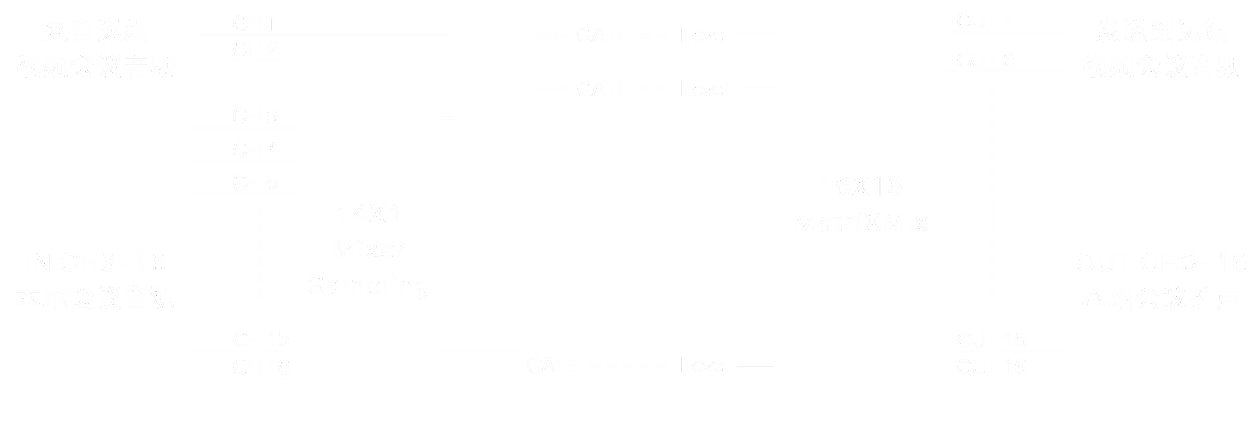
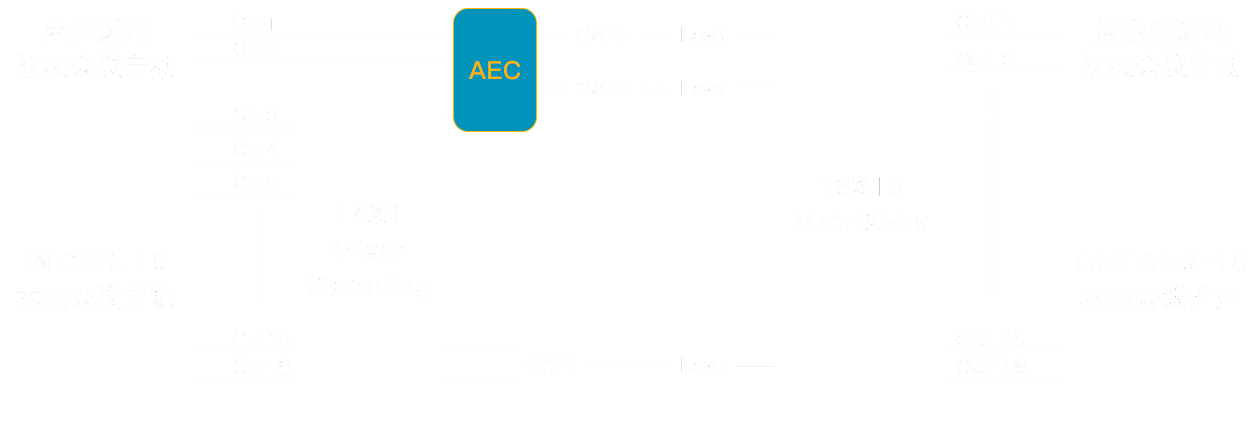
shouquanma

Changed region(s): [[0.3418, 0.0, 0.4351, 0.3125]]

diff --git a/veenoon/Engineer/Audio/RIghtView/AudioProcess/YinPinProcessCodeUIView.m b/veenoon/Engineer/Audio/RIghtView/AudioProcess/YinPinProcessCodeUIView.m
@@ -1,0 +1,123 @@
+//
+//  YinPinProcessCodeUIView.m
+//  veenoon
+//
+//  Created by 安志良 on 2018/3/4.
+//  Copyright © 2018年 jack. All rights reserved.
+//
+
+#import "YinPinProcessCodeUIView.h"
+
+@interface YinPinProcessCodeUIView()<UITextFieldDelegate> {
+    UIView *_inputPannel;
+    UITextField *_invitationCode;
+}
+
+@end
+
+@implementation YinPinProcessCodeUIView
+
+- (id)initWithFrame:(CGRect)frame {
+    if (self = [super initWithFrame:frame]) {
+        self.backgroundColor = [UIColor clearColor];
+        
+        UIView *view = [[UIView alloc] initWithFrame:self.bounds];
+        view.backgroundColor = RGB(1, 138, 182);
+        view.alpha = 0.9;
+        
+        [self addSubview:view];
+        
+        UIImageView *titleIcon = [[UIImageView alloc] initWithImage:[UIImage imageNamed:@"main_view_title.png"]];
+        [self addSubview:titleIcon];
+        titleIcon.frame = CGRectMake(60, 40, 70, 10);
+        
+        UILabel *line = [[UILabel alloc] initWithFrame:CGRectMake(0, 63, SCREEN_WIDTH, 1)];
+        line.backgroundColor = RGB(75, 163, 202);
+        [self addSubview:line];
+        
+        UIImageView *bottomBar = [[UIImageView alloc] initWithFrame:CGRectMake(0, SCREEN_HEIGHT-50, SCREEN_WIDTH, 50)];
+        [self addSubview:bottomBar];
+        
+        //缺切图，把切图贴上即可。
+        bottomBar.backgroundColor = [UIColor grayColor];
+        bottomBar.userInteractionEnabled = YES;
+        bottomBar.image = [UIImage imageNamed:@"botomo_icon.png"];
+        
+        UIButton *cancelBtn = [UIButton buttonWithType:UIButtonTypeCustom];
+        cancelBtn.frame = CGRectMake(0, 0,160, 50);
+        [bottomBar addSubview:cancelBtn];
+        [cancelBtn setTitle:@"取消" forState:UIControlStateNormal];
+        [cancelBtn setTitleColor:[UIColor whiteColor] forState:UIControlStateNormal];
+        [cancelBtn setTitleColor:RGB(255, 180, 0) forState:UIControlStateHighlighted];
+        cancelBtn.titleLabel.font = [UIFont boldSystemFontOfSize:18];
+        [cancelBtn addTarget:self
+                      action:@selector(cancelAction:)
+            forControlEvents:UIControlEventTouchUpInside];
+        
+        UIButton *okBtn = [UIButton buttonWithType:UIButtonTypeCustom];
+        okBtn.frame = CGRectMake(SCREEN_WIDTH-10-160, 0,160, 50);
+        [bottomBar addSubview:okBtn];
+        [okBtn setTitle:@"确认" forState:UIControlStateNormal];
+        [okBtn setTitleColor:[UIColor whiteColor] forState:UIControlStateNormal];
+        [okBtn setTitleColor:RGB(255, 180, 0) forState:UIControlStateHighlighted];
+        okBtn.titleLabel.font = [UIFont boldSystemFontOfSize:18];
+        [okBtn addTarget:self
+                  action:@selector(okAction:)
+        forControlEvents:UIControlEventTouchUpInside];
+        
+        _inputPannel = [[UIView alloc] initWithFrame:CGRectMake(0, 0, 400, 180)];
+        [self addSubview:_inputPannel];
+        _inputPannel.center = CGPointMake(SCREEN_WIDTH/2, SCREEN_HEIGHT/2);
+        
+        ///在这里编写登录输入内容框 _inputPannel
+        int top = 40;
+        int left = 0;
+        int w = CGRectGetWidth(_inputPannel.frame);
+        UILabel *tL = [[UILabel alloc] initWithFrame:CGRectMake(20, 0, w-40, 50)];
+        tL.textAlignment = NSTextAlignmentCenter;
+        tL.text = @"授权码";
+        tL.textColor = RGB(70, 219, 254);
+        tL.font = [UIFont boldSystemFontOfSize:18];
+        [_inputPannel addSubview:tL];
+        
+        ///手机号输入框 pending....
+        _invitationCode = [[UITextField alloc] initWithFrame:CGRectMake(25, top+20, w-50, 30)];
+        _invitationCode.delegate = self;
+        _invitationCode.layer.cornerRadius = 5;
+        _invitationCode.layer.masksToBounds = YES;
+        _invitationCode.textAlignment = NSTextAlignmentCenter;
+        _invitationCode.returnKeyType = UIReturnKeyDone;
+        _invitationCode.placeholder = @"";
+        _invitationCode.backgroundColor = [UIColor whiteColor];
+        _invitationCode.textColor = RGB(1, 138, 182);
+        _invitationCode.borderStyle = UITextBorderStyleNone;
+        [_inputPannel addSubview:_invitationCode];
+    }
+    return self;
+}
+- (void)textFieldDidBeginEditing:(UITextField *)textField{
+    
+    
+}
+
+- (void)  textFieldDidEndEditing:(UITextField *)textField{
+    
+    
+}
+
+- (BOOL)textFieldShouldReturn:(UITextField *)textField{
+    
+    [textField resignFirstResponder];
+    
+    return YES;
+}
+
+- (void) okAction:(id)sender {
+    [self removeFromSuperview];
+}
+
+- (void) cancelAction:(id)sender{
+    [self removeFromSuperview];
+}
+
+@end

diff --git a/veenoon/Engineer/Audio/RIghtView/AudioProcess/HuiShengXiaoChu_UIView.m b/veenoon/Engineer/Audio/RIghtView/AudioProcess/HuiShengXiaoChu_UIView.m
@@ -15,6 +15,8 @@
     UIButton *channelBtn;
     
     UIView   *contentView;
+    
+    UIButton *aecButton;
 }
 @property (nonatomic, strong) NSMutableArray *_channelBtns;
 
@@ -23,6 +25,7 @@
 
 @implementation HuiShengXiaoChu_UIView
 @synthesize _channelBtns;
+@synthesize delegate_;
 /*
  // Only override drawRect: if you perform custom drawing.
  // An empty implementation adversely affects performance during animation.
@@ -140,8 +143,21 @@
                    action:@selector(zhitongBtnAction:)
          forControlEvents:UIControlEventTouchUpInside];
     [contentView addSubview:zhitongBtn];
+    
+    aecButton = [UIButton buttonWithColor:nil selColor:nil];
+    aecButton.frame = CGRectMake(350, 150, 50, 75);
+    aecButton.clipsToBounds = YES;
+    aecButton.layer.cornerRadius = 5;
+    [aecButton addTarget:self
+                   action:@selector(aceBtnAction:)
+         forControlEvents:UIControlEventTouchUpInside];
+    [self addSubview:aecButton];
 }
-
+- (void) aceBtnAction:(id) sender {
+    if(delegate_ && [delegate_ respondsToSelector:@selector(didAecButtonAction)]) {
+        [delegate_ didAecButtonAction];
+    }
+}
 - (void) zhitongBtnAction:(id) sender {
     
 }

diff --git a/veenoon/Engineer/Audio/RIghtView/AudioInputSettingViewCtrl.m b/veenoon/Engineer/Audio/RIghtView/AudioInputSettingViewCtrl.m
@@ -14,9 +14,9 @@
 #import "YanShiQi_UIView.h"
 #import "HuiShengXiaoChu_UIView.h"
 #import "LvBoJunHeng_UIView.h"
+#import "YinPinProcessCodeUIView.h"
 
-@interface AudioInputSettingViewCtrl ()
-{
+@interface AudioInputSettingViewCtrl () <HuiShengXiaoChu_UIViewDelegate> {
     YaXianQi_UIView *yxq;
     ZengYi_UIView *zengyiView;
     ZaoShengMen_UIView *zaoshengView;
@@ -212,6 +212,7 @@
     lvbo.hidden = YES;
     
     huishengView = [[HuiShengXiaoChu_UIView alloc] initWithFrame:vrc];
+    huishengView.delegate_ = self;
     [self.view addSubview:huishengView];
     huishengView.hidden = YES;
     
@@ -305,8 +306,12 @@
     huishengView.hidden = YES;
     lvbo.hidden = YES;
 }
-
-- (void) okAction:(id)sender{
+- (void) didAecButtonAction {
+    YinPinProcessCodeUIView *uiView = [[YinPinProcessCodeUIView alloc] initWithFrame:CGRectMake(0, 0, SCREEN_WIDTH, SCREEN_HEIGHT)];
+    
+    [self.view addSubview:uiView];
+}
+- (void) okAction:(id)sender {
     
 }
 

diff --git a/veenoon/Engineer/Audio/RIghtView/AudioProcess/Fenpinqi_UIView.m b/veenoon/Engineer/Audio/RIghtView/AudioProcess/Fenpinqi_UIView.m
@@ -57,6 +57,8 @@
         [self addSubview:addLabel];
         
         SlideButton *btn = [[SlideButton alloc] initWithFrame:CGRectMake(startX-33, startH+30, 120, 120)];
+        UIImage *image = [UIImage imageNamed:@"yinpinchuli_anniu.png"];
+        [btn changeButtonBackgroundImage:image];
         [self addSubview:btn];
         
         gaotongL = [[UILabel alloc] init];

diff --git a/veenoon/Engineer/Audio/RIghtView/AudioProcess/HuiShengXiaoChu_UIView.h b/veenoon/Engineer/Audio/RIghtView/AudioProcess/HuiShengXiaoChu_UIView.h
@@ -7,7 +7,12 @@
 //
 
 #import <UIKit/UIKit.h>
+@protocol HuiShengXiaoChu_UIViewDelegate <NSObject>
+
+@optional
+- (void) didAecButtonAction;
+@end
 
 @interface HuiShengXiaoChu_UIView : UIView
-
+@property (nonatomic, weak) id  <HuiShengXiaoChu_UIViewDelegate> delegate_;
 @end

diff --git a/veenoon/Engineer/Audio/RIghtView/AudioProcess/YinPinProcessCodeUIView.h b/veenoon/Engineer/Audio/RIghtView/AudioProcess/YinPinProcessCodeUIView.h
@@ -1,0 +1,13 @@
+//
+//  YinPinProcessCodeUIView.h
+//  veenoon
+//
+//  Created by 安志良 on 2018/3/4.
+//  Copyright © 2018年 jack. All rights reserved.
+//
+
+#import <UIKit/UIKit.h>
+
+@interface YinPinProcessCodeUIView : UIView
+
+@end
